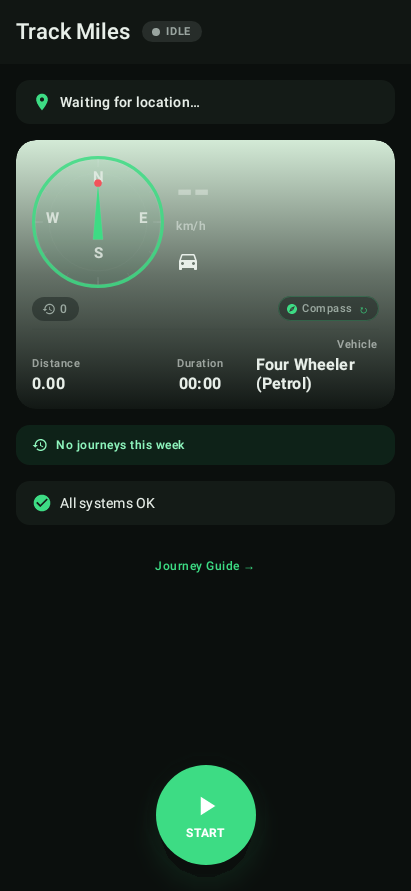
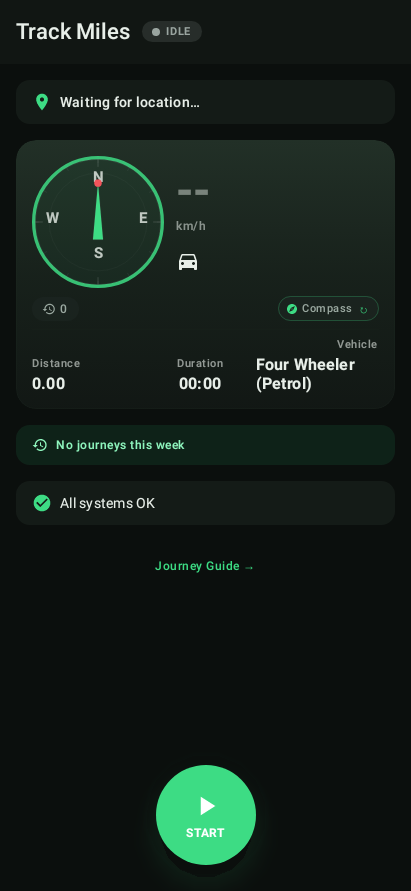
feat(tracking): matrix-tokened hero card + journey route names
Task 3 polish using matrix tokens, reimplemented originally:

- HeroTrackingCard: replace hard-coded pastel-green hexes with an
  accent-derived gradient (lerp of MilewayColors.surfaceRaised toward the
  active theme primary), animateColorAsState on active<->idle, and a
  glow-on-active breathing accent border (calm outline when idle/paused). The
  gradient now follows each curated theme (Matrix green, Ion blue) instead of a
  fixed green. Breathing animation preserved.

- SavedTracks JourneyCard: add a muted 'From -> To' place-name line
  (journey-card anatomy from the reference), resolved offline via
  OfflineLocationNameResolver.nameFor; omitted when neither endpoint resolves.

- OfflineLocationNameResolver: expose non-suspending resolveSync/nameFor for
  static UI rows (cheap in-memory lookup, no I/O).

Adds hero-card previews (active/idle matrix + active ion) and Roborazzi catalog
entries.

Changed region(s): [[0.0292, 0.1515, 0.9635, 0.4242]]

diff --git a/core/ui/src/commonMain/kotlin/com/miletracker/core/ui/previews/HeroTrackingCardPreviews.kt b/core/ui/src/commonMain/kotlin/com/miletracker/core/ui/previews/HeroTrackingCardPreviews.kt
@@ -1,0 +1,63 @@
+package com.miletracker.core.ui.previews
+
+import androidx.compose.foundation.layout.fillMaxWidth
+import androidx.compose.foundation.layout.padding
+import androidx.compose.runtime.Composable
+import androidx.compose.ui.Modifier
+import androidx.compose.ui.tooling.preview.Preview
+import androidx.compose.ui.unit.dp
+import com.miletracker.core.ui.components.tracking.ActivitySegment
+import com.miletracker.core.ui.components.tracking.ActivityType
+import com.miletracker.core.ui.components.tracking.GaugeMode
+import com.miletracker.core.ui.components.tracking.GaugeSignal
+import com.miletracker.core.ui.components.tracking.HeroTrackingCard
+import com.miletracker.core.ui.theme.MilewayTheme
+
+// ---------------------------------------------------------------------------
+// Public previews for the matrix-re-tokened HeroTrackingCard (Task 3).
+//
+// Active: accent-warmed gradient + glowing breathing border (glow-on-active).
+// Idle:   calm raised surface + outline. Renders in each curated scheme so the
+// accent-derived gradient is verifiably coherent (Matrix green vs Ion blue).
+// ---------------------------------------------------------------------------
+
+@Composable
+private fun HeroInScheme(
+    isActive: Boolean,
+    theme: MilewayTheme = MilewayTheme.MATRIX,
+) {
+    PreviewSurface(theme = theme) {
+        HeroTrackingCard(
+            modifier = Modifier.fillMaxWidth().padding(16.dp),
+            distanceText = if (isActive) "4.20 km" else "0.00 km",
+            durationText = if (isActive) "00:12:30" else "00:00",
+            vehicleName = "Four Wheeler (Petrol)",
+            bearingDegrees = 45f,
+            speedKmh = if (isActive) 38f else null,
+            signalQuality = GaugeSignal.GOOD,
+            segments =
+                if (isActive) {
+                    listOf(ActivitySegment(ActivityType.DRIVING, 1f))
+                } else {
+                    emptyList()
+                },
+            gaugeMode = GaugeMode.COMPASS,
+            onToggleMode = {},
+            isActive = isActive,
+            historyCount = if (isActive) 18 else 0,
+            trackingActivity = if (isActive) "Driving" else "",
+        )
+    }
+}
+
+@Preview(name = "Hero card · Active (matrix)", showBackground = true, widthDp = 380, heightDp = 360)
+@Composable
+fun PreviewHeroTrackingCardActive() = HeroInScheme(isActive = true)
+
+@Preview(name = "Hero card · Idle (matrix)", showBackground = true, widthDp = 380, heightDp = 360)
+@Composable
+fun PreviewHeroTrackingCardIdle() = HeroInScheme(isActive = false)
+
+@Preview(name = "Hero card · Active (ion)", showBackground = true, widthDp = 380, heightDp = 360)
+@Composable
+fun PreviewHeroTrackingCardActiveIon() = HeroInScheme(isActive = true, theme = MilewayTheme.ION)

diff --git a/feature/tracking/src/androidMain/kotlin/com/miletracker/feature/tracking/ui/screens/SavedTracksScreen.kt b/feature/tracking/src/androidMain/kotlin/com/miletracker/feature/tracking/ui/screens/SavedTracksScreen.kt
@@ -29,6 +29,7 @@ import androidx.compose.material.icons.filled.CheckCircle
 import androidx.compose.material.icons.filled.Close
 import androidx.compose.material.icons.filled.ExpandLess
 import androidx.compose.material.icons.filled.ExpandMore
+import androidx.compose.material.icons.filled.Place
 import androidx.compose.material.icons.filled.PlayArrow
 import androidx.compose.material3.Card
 import androidx.compose.material3.CardDefaults
@@ -61,6 +62,7 @@ import androidx.compose.ui.unit.dp
 import com.miletracker.core.common.formatDecimal
 import com.miletracker.core.data.model.display.TrackDisplayData
 import com.miletracker.core.data.util.DateUtils
+import com.miletracker.core.platform.OfflineLocationNameResolver
 import com.miletracker.core.ui.components.ConfettiBurst
 import com.miletracker.core.ui.components.EmptyState
 import com.miletracker.core.ui.components.LoadingScreen
@@ -430,6 +432,15 @@ private fun JourneyCard(
                     StatusChip(isSubmitted = track.isSubmitted)
                 }
 
+                // Muted from → to place names (offline-resolved), the journey-card anatomy from the
+                // reference. Shown only when at least one endpoint resolves to a named waypoint.
+                JourneyRouteLine(
+                    fromLat = track.startLatitude,
+                    fromLng = track.startLongitude,
+                    toLat = track.endLatitude,
+                    toLng = track.endLongitude,
+                )
+
                 Spacer(Modifier.height(DesignTokens.Spacing.m))
 
                 Row(
@@ -469,6 +480,46 @@ private fun JourneyCard(
         }
     }
 }
+
+/**
+ * A muted "From → To" line resolving each saved-journey endpoint to an offline place name. Falls
+ * back gracefully: if neither endpoint resolves to a named waypoint, the row is omitted entirely.
+ */
+@Composable
+private fun JourneyRouteLine(
+    fromLat: Double,
+    fromLng: Double,
+    toLat: Double,
+    toLng: Double,
+) {
+    val resolver = remember { OfflineLocationNameResolver() }
+    val from = remember(fromLat, fromLng) { resolver.nameFor(fromLat, fromLng) }
+    val to = remember(toLat, toLng) { resolver.nameFor(toLat, toLng) }
+    if (from == null && to == null) return
+
+    Spacer(Modifier.height(DesignTokens.Spacing.xs))
+    Row(
+        verticalAlignment = Alignment.CenterVertically,
+        horizontalArrangement = Arrangement.spacedBy(DesignTokens.Spacing.xs),
+    ) {
+        Icon(
+            imageVector = Icons.Default.Place,
+            contentDescription = null,
+            tint = MilewayColors.neutral,
+            modifier = Modifier.size(DesignTokens.IconSize.inline),
+        )
+        Text(
+            text = "${shortPlace(from)} → ${shortPlace(to)}",
+            style = MaterialTheme.typography.bodySmall,
+            color = MilewayColors.neutral,
+            maxLines = 1,
+            overflow = androidx.compose.ui.text.style.TextOverflow.Ellipsis,
+        )
+    }
+}
+
+/** Trim a resolved "<locality>, Pune" label to just the locality for the compact route line. */
+private fun shortPlace(name: String?): String = name?.substringBefore(",")?.trim() ?: "Unknown"
 
 @Composable
 private fun Metric(

diff --git a/core/ui/src/commonMain/kotlin/com/miletracker/core/ui/components/tracking/CompassGaugeHero.kt b/core/ui/src/commonMain/kotlin/com/miletracker/core/ui/components/tracking/CompassGaugeHero.kt
@@ -1,6 +1,7 @@
 package com.miletracker.core.ui.components.tracking
 
 import androidx.compose.animation.AnimatedContent
+import androidx.compose.animation.animateColorAsState
 import androidx.compose.animation.core.EaseOutCubic
 import androidx.compose.animation.core.RepeatMode
 import androidx.compose.animation.core.Spring
@@ -56,6 +57,7 @@ import androidx.compose.ui.geometry.Offset
 import androidx.compose.ui.graphics.Brush
 import androidx.compose.ui.graphics.Color
 import androidx.compose.ui.graphics.Path
+import androidx.compose.ui.graphics.lerp
 import androidx.compose.ui.graphics.drawscope.DrawScope
 import androidx.compose.ui.graphics.drawscope.Fill
 import androidx.compose.ui.graphics.drawscope.Stroke
@@ -71,6 +73,7 @@ import androidx.compose.ui.unit.Dp
 import androidx.compose.ui.unit.dp
 import androidx.compose.ui.unit.sp
 import com.miletracker.core.ui.theme.DesignTokens
+import com.miletracker.core.ui.theme.MilewayColors
 import kotlin.math.PI
 import kotlin.math.cos
 import kotlin.math.max
@@ -526,12 +529,32 @@ fun HeroTrackingCard(
 ) {
     val shape = RoundedCornerShape(shapeRadius)
     val onSurface = MaterialTheme.colorScheme.onSurface
-    val heroTopColor = if (isActive) Color(0xFFA9DCAE) else Color(0xFFD3EAD6)
+
+    // Matrix-tokened hero gradient: a raised surface warmed by the active theme accent (Matrix green /
+    // Ion blue / …) when live, calmer when idle. No hard-coded hexes, so every curated theme stays
+    // coherent. `animateColorAsState` cross-fades the top tint as tracking starts / stops.
+    val accent = MaterialTheme.colorScheme.primary
+    val surfaceRaised = MilewayColors.surfaceRaised
+    val targetTop =
+        if (isActive) {
+            lerp(surfaceRaised, accent, 0.22f)
+        } else {
+            lerp(surfaceRaised, accent, 0.06f)
+        }
+    val heroTopColor by animateColorAsState(targetTop, tween(600), label = "heroTopColor")
     val gradient =
         Brush.verticalGradient(
-            colors = listOf(heroTopColor, heroTopColor.copy(alpha = 0.45f), MaterialTheme.colorScheme.surfaceVariant.copy(alpha = 0.35f)),
+            colors =
+                listOf(
+                    heroTopColor,
+                    heroTopColor.copy(alpha = 0.55f),
+                    MaterialTheme.colorScheme.surfaceVariant.copy(alpha = 0.35f),
+                ),
         )
 
+    // Glow on active/primary only: a soft accent border ring that breathes while tracking; idle and
+    // paused cards carry a calm outline instead.
+    val useGlow = MilewayColors.useGlow
     val breath =
         if (isActive) {
             val infinite = rememberInfiniteTransition(label = "heroBreath")
@@ -549,6 +572,15 @@ fun HeroTrackingCard(
             1f
         }
 
+    // Glow-on-active only: while tracking, a soft accent border ring whose alpha tracks the breath
+    // so the live card subtly pulses; idle/paused cards carry a calm one-pixel outline.
+    val borderColor =
+        when {
+            isActive && useGlow -> accent.copy(alpha = 0.30f + (breath - 0.99f) * 8f)
+            isActive -> accent.copy(alpha = 0.35f)
+            else -> MaterialTheme.colorScheme.outline.copy(alpha = 0.18f)
+        }
+
     // Flat card, no elevation shadow, gradient provides all the depth.
     Card(
         modifier =
@@ -559,6 +591,7 @@ fun HeroTrackingCard(
         shape = shape,
         colors = CardDefaults.cardColors(containerColor = Color.Transparent),
         elevation = CardDefaults.cardElevation(defaultElevation = 0.dp),
+        border = BorderStroke(if (isActive) 1.5.dp else 1.dp, borderColor),
     ) {
         Box(modifier = Modifier.fillMaxWidth().clip(shape).background(gradient)) {
             Column(

diff --git a/app/src/test/java/com/miletracker/ScreenshotCatalogTest.kt b/app/src/test/java/com/miletracker/ScreenshotCatalogTest.kt
@@ -5,6 +5,9 @@ import androidx.compose.ui.test.junit4.createComposeRule
 import androidx.compose.ui.test.onRoot
 import androidx.test.ext.junit.runners.AndroidJUnit4
 import com.github.takahirom.roborazzi.captureRoboImage
+import com.miletracker.core.ui.previews.PreviewHeroTrackingCardActive
+import com.miletracker.core.ui.previews.PreviewHeroTrackingCardActiveIon
+import com.miletracker.core.ui.previews.PreviewHeroTrackingCardIdle
 import com.miletracker.core.ui.previews.PreviewThemePickerAmoled
 import com.miletracker.core.ui.previews.PreviewThemePickerDaybreak
 import com.miletracker.core.ui.previews.PreviewThemePickerIon
@@ -261,6 +264,26 @@ class ScreenshotCatalogTest {
     fun tracking_statusPills() {
         composeRule.setContent { PreviewTrackingStatusPills() }
         capture("tracking_statusPills")
+    }
+
+    // ── core:ui — matrix-re-tokened hero tracking card (Task 3) ───────────────
+
+    @Test
+    fun tracking_heroCard_active() {
+        composeRule.setContent { PreviewHeroTrackingCardActive() }
+        capture("tracking_heroCard_active")
+    }
+
+    @Test
+    fun tracking_heroCard_idle() {
+        composeRule.setContent { PreviewHeroTrackingCardIdle() }
+        capture("tracking_heroCard_idle")
+    }
+
+    @Test
+    fun tracking_heroCard_active_ion() {
+        composeRule.setContent { PreviewHeroTrackingCardActiveIon() }
+        capture("tracking_heroCard_active_ion")
     }
 
     companion object {

diff --git a/core/platform/src/commonMain/kotlin/com/miletracker/core/platform/OfflineLocationNameResolver.kt b/core/platform/src/commonMain/kotlin/com/miletracker/core/platform/OfflineLocationNameResolver.kt
@@ -32,6 +32,16 @@ class OfflineLocationNameResolver(
     override suspend fun resolve(
         latitude: Double,
         longitude: Double,
+    ): PlaceName = resolveSync(latitude, longitude)
+
+    /**
+     * The pure, non-suspending lookup behind [resolve]. Exposed for UI that renders many static
+     * coordinates (e.g. saved-journey from→to labels) where suspending per row is needless — the
+     * gazetteer lookup is a cheap in-memory nearest-neighbour scan with no I/O.
+     */
+    fun resolveSync(
+        latitude: Double,
+        longitude: Double,
     ): PlaceName {
         val nearest =
             waypoints.minByOrNull { wp ->
@@ -45,6 +55,12 @@ class OfflineLocationNameResolver(
             PlaceName.coordinatesOnly(latitude, longitude)
         }
     }
+
+    /** Short place name for [latitude]/[longitude], or `null` when no gazetteer entry is close. */
+    fun nameFor(
+        latitude: Double,
+        longitude: Double,
+    ): String? = resolveSync(latitude, longitude).name
 
     private fun squaredDistance(
         lat1: Double,